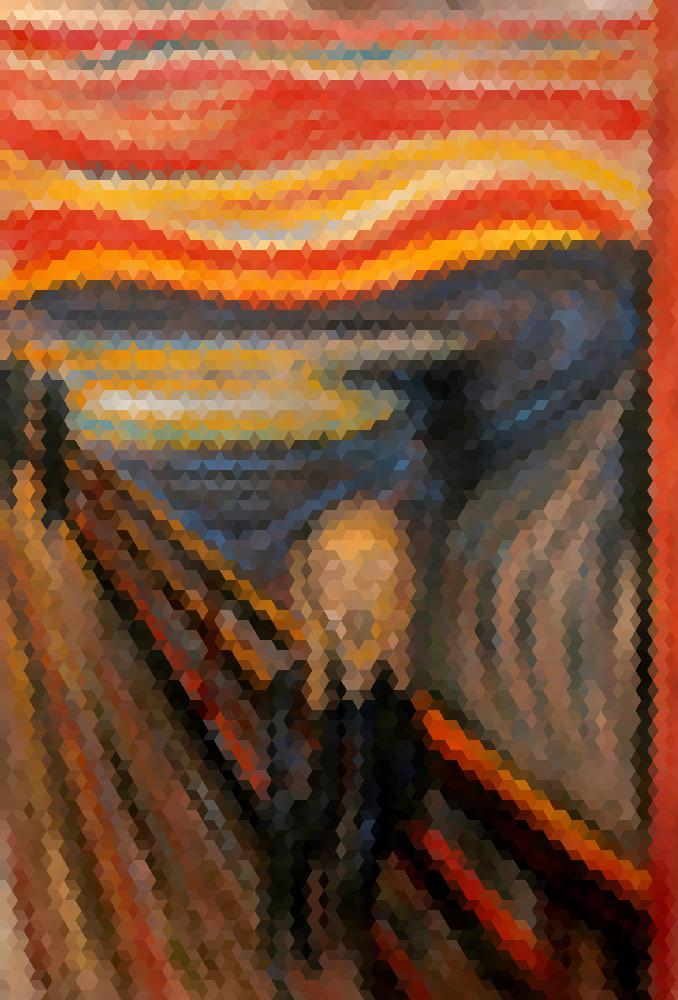
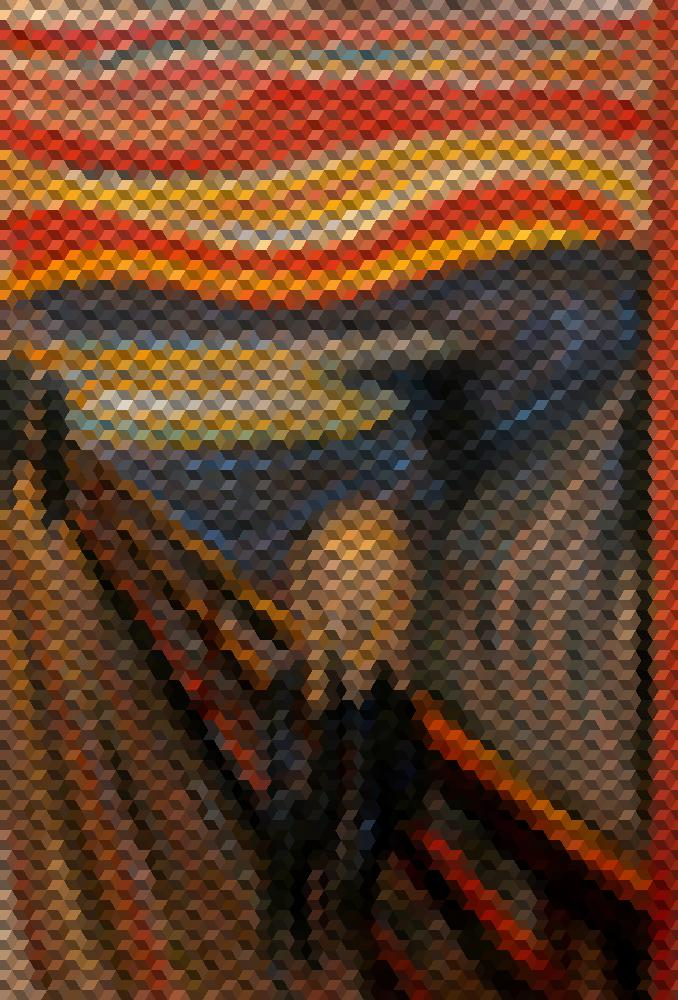
3D tiling added!

diff --git a/tile_generator.py b/tile_generator.py
@@ -37,6 +37,8 @@ def hexagon_tile(xs, ys, xe, ye, radius):
     yoffset = 3 * p
 
     polygons = []
+    weights = []
+
     row = 1
     counter = 0
 
@@ -67,11 +69,12 @@ def hexagon_tile(xs, ys, xe, ye, radius):
                 (p6x, p6y),
                 (p1x, p1y)]
             polygons.append(poly)
+            weights.append(1)
             counter += 1
             xs += w
         ys += yoffset
         row += 1
-    return polygons
+    return polygons, weights
 
 
 def cubic_tile(xs, ys, xe, ye, radius):
@@ -110,6 +113,8 @@ def cubic_tile(xs, ys, xe, ye, radius):
     yoffset = 3 * p
 
     polygons = []
+    weights = []
+
     row = 1
     counter = 0
 
@@ -154,8 +159,188 @@ def cubic_tile(xs, ys, xe, ye, radius):
             polygons.append(poly1)
             polygons.append(poly2)
             polygons.append(poly3)
+            weights.append(1.0)
+            weights.append(0.8)
+            weights.append(0.6)
             counter += 1
             xs += w
         ys += yoffset
         row += 1
-    return polygons
+    return polygons, weights
+
+
+def double_cubic_tile(xs, ys, xe, ye, radius):
+    """
+    Calculate a grid of cubic coordinates of the given radius
+    given lower-left and upper-right coordinates
+    Returns a list of lists containing 4 tuples of x, y point coordinates
+    These can be used to construct valid regular cubic polygons
+
+    You will probably want to use projected coordinates for this
+    """
+    # calculate side length given radius
+    sl = (2 * radius) * math.tan(math.pi / 6)
+    # calculate radius for a given side-length
+    # (a * (math.cos(math.pi / 6) / math.sin(math.pi / 6)) / 2)
+    # see http://www.calculatorsoup.com/calculators/geometry-plane/polygon.php
+
+    # calculate coordinates of the hexagon points
+    # sin(30)
+    p = sl * 0.5
+    b = sl * math.cos(math.radians(30))
+    w = b * 2
+    h = 2 * sl
+
+    # offset start and end coordinates by hex widths and heights to guarantee coverage
+    xs = xs - w
+    ys = ys - h
+    xe = xe + w
+    ye = ye + h
+
+    origx = xs
+    origy = ys
+
+    # offsets for moving along and up rows
+    xoffset = b
+    yoffset = 3 * p
+
+    polygons = []
+    weights = []
+
+    row = 1
+    counter = 0
+
+    while ys < ye:
+        if row % 2 == 0:
+            xs = origx + xoffset
+        else:
+            xs = origx
+        while xs < xe:
+            p1x = xs
+            p1y = ys + p
+            p2x = xs
+            p2y = ys + (3 * p)
+            p3x = xs + b
+            p3y = ys + h
+            p4x = xs + w
+            p4y = ys + (3 * p)
+            p5x = xs + w
+            p5y = ys + p
+            p6x = xs + b
+            p6y = ys
+            cx = (p1x + p3x + p5x) / 3
+            cy = (p1y + p3y + p5y) / 3
+
+            p1x_i = 0.5 * (p1x + cx)
+            p2x_i = 0.5 * (p2x + cx)
+            p3x_i = 0.5 * (p3x + cx)
+            p4x_i = 0.5 * (p4x + cx)
+            p5x_i = 0.5 * (p5x + cx)
+            p6x_i = 0.5 * (p6x + cx)
+            p1y_i = 0.5 * (p1y + cy)
+            p2y_i = 0.5 * (p2y + cy)
+            p3y_i = 0.5 * (p3y + cy)
+            p4y_i = 0.5 * (p4y + cy)
+            p5y_i = 0.5 * (p5y + cy)
+            p6y_i = 0.5 * (p6y + cy)
+
+            poly1 = [
+                (p1x_i, p1y_i),
+                (p2x_i, p2y_i),
+                (cx, cy),
+                (p6x_i, p6y_i),
+            ]
+            weights.append(1.0)
+            poly2 = [
+                (p2x_i, p2y_i),
+                (p3x_i, p3y_i),
+                (p4x_i, p4y_i),
+                (cx, cy),
+            ]
+            weights.append(0.8)
+            poly3 = [
+                (p4x_i, p4y_i),
+                (p5x_i, p5y_i),
+                (p6x_i, p6y_i),
+                (cx, cy),
+            ]
+            weights.append(0.6)
+            polygons.append(poly1)
+            polygons.append(poly2)
+            polygons.append(poly3)
+
+            poly4 = [
+                (p1x, p1y),
+                (p2x, p2y),
+                (p3x, p3y),
+                (p3x_i, p3y_i),
+                (p2x_i, p2y_i),
+                (p1x_i, p1y_i),
+            ]
+            poly5 = [
+                (p3x, p3y),
+                (p4x, p4y),
+                (p5x, p5y),
+                (p5x_i, p5y_i),
+                (p4x_i, p4y_i),
+                (p3x_i, p3y_i),
+            ]
+            poly6 = [
+                (p5x, p5y),
+                (p6x, p6y),
+                (p1x, p1y),
+                (p1x_i, p1y_i),
+                (p6x_i, p6y_i),
+                (p5x_i, p5y_i),
+            ]
+            polygons.append(poly4)
+            weights.append(0.6)
+            polygons.append(poly5)
+            weights.append(1.0)
+            polygons.append(poly6)
+            weights.append(0.8)
+
+
+            counter += 1
+            xs += w
+        ys += yoffset
+        row += 1
+    return polygons, weights
+
+
+def the_wall_tile(xs, ys, xe, ye, radius):
+    polygons = []
+    weights = []
+    x = xs
+    counter = 0
+    while x < xe:
+        y_start = ys if counter % 2 == 0 else ys - radius
+        counter += 1
+        y = y_start
+        while y < ye:
+            p1x = x
+            p1y = y
+            p2x = x
+            p2y = y + 2 * radius
+            p3x = x + radius
+            p3y = p2y
+            p4x = p3x
+            p4y = y
+            poly = [
+                (p1x, p1y),
+                (p2x, p2y),
+                (p3x, p3y),
+                (p4x, p4y),
+            ]
+            polygons.append(poly)
+            weights.append(1.0)
+            y += radius * 2
+        x += radius
+
+    return polygons, weights
+
+
+if __name__ == '__main__':
+    # a = the_wall_tile(0, 0, 100, 100, 10)
+    a = double_cubic_tile(0, 0, 100, 100, 30)
+    print(a)

diff --git a/main.py b/main.py
@@ -3,7 +3,7 @@ import math
 from tqdm import tqdm
 from PIL import Image
 import numpy as np
-from tile_generator import hexagon_tile, cubic_tile
+from tile_generator import hexagon_tile, cubic_tile, the_wall_tile, double_cubic_tile
 from shapely.geometry import Point
 from shapely.geometry.polygon import Polygon
 from sklearn.metrics import pairwise_distances
@@ -17,6 +17,50 @@ from sklearn.metrics import pairwise_distances
 #         for j in range(0, cols, R):
 #             image_segment = image[i: i + R, j: j + R, :]
 #             image_segment_reshape = image_segment.reshape([-1, 3])
+def wall(image, R, h):
+    image = np.array(image)[:, :, :3]
+    rows, cols, _ = image.shape
+    hexagon_points, _ = the_wall_tile(0, 0, rows, cols, R)
+    polygons = [Polygon(points) for points in hexagon_points]
+    polygon_to_i_j = [([], []) for _ in polygons]
+    i_j_to_polygon = [[-1 for _ in range(cols)] for _ in range(rows)]
+    for l, poly in tqdm(enumerate(polygons), total=len(polygons)):
+        min_x, min_y, max_x, max_y = poly.bounds
+        min_x = math.floor(min_x)
+        min_y = math.floor(min_y)
+        max_x = math.ceil(max_x)
+        max_y = math.ceil(max_y)
+        for i in range(max(0, min_x), min(max_x + 1, rows)):
+            for j in range(max(0, min_y), min(max_y + 1, cols)):
+                if i_j_to_polygon[i][j] != -1:
+                    continue
+                x, y = i, j
+                if i == min_x or i == 0:
+                    x = i + 0.1
+                if j == min_y or j == 0:
+                    y = j + 0.1
+
+                point = Point(x, y)
+                if poly.contains(point):
+                    polygon_to_i_j[l][0].append(i)
+                    polygon_to_i_j[l][1].append(j)
+                    i_j_to_polygon[i][j] = l
+
+    polygon_to_color = [255 for _ in polygons]
+    for l in range(len(polygons)):
+        indices = polygon_to_i_j[l]
+        if len(indices[0]) > 0:
+            color = np.mean(image[indices], axis=0)
+            polygon_to_color[l] = color
+
+    pixelized_image = np.ones_like(image) * 255.0
+    for i in range(rows):
+        for j in range(cols):
+            polygon = i_j_to_polygon[i][j]
+            pixelized_image[i, j] = polygon_to_color[polygon]
+
+    pixelized_image = Image.fromarray(np.uint8(pixelized_image))
+    return pixelized_image
 
 
 def voronoi(image, R, h):
@@ -60,7 +104,7 @@ def voronoi(image, R, h):
 def hexagon(image, R, h):
     image = np.array(image)[:, :, :3]
     rows, cols, _ = image.shape
-    hexagon_points = hexagon_tile(0, 0, rows, cols, R)
+    hexagon_points, _ = hexagon_tile(0, 0, rows, cols, R)
     polygons = [Polygon(points) for points in hexagon_points]
     polygon_to_i_j = [([], []) for _ in polygons]
     i_j_to_polygon = [[-1 for _ in range(cols)] for _ in range(rows)]
@@ -106,7 +150,7 @@ def hexagon(image, R, h):
 def cube(image, R, h):
     image = np.array(image)[:, :, :3]
     rows, cols, _ = image.shape
-    hexagon_points = cubic_tile(0, 0, rows, cols, R)
+    hexagon_points, weights = cubic_tile(0, 0, rows, cols, R)
     polygons = [Polygon(points) for points in hexagon_points]
     polygon_to_i_j = [([], []) for _ in polygons]
     i_j_to_polygon = [[-1 for _ in range(cols)] for _ in range(rows)]
@@ -143,7 +187,53 @@ def cube(image, R, h):
     for i in range(rows):
         for j in range(cols):
             polygon = i_j_to_polygon[i][j]
-            pixelized_image[i, j] = polygon_to_color[polygon]
+            pixelized_image[i, j] = polygon_to_color[polygon] * weights[polygon]
+
+    pixelized_image = Image.fromarray(np.uint8(pixelized_image))
+    return pixelized_image
+
+
+def dcube(image, R, h):
+    image = np.array(image)[:, :, :3]
+    rows, cols, _ = image.shape
+    hexagon_points, weights = double_cubic_tile(0, 0, rows, cols, R)
+    polygons = [Polygon(points) for points in hexagon_points]
+    polygon_to_i_j = [([], []) for _ in polygons]
+    i_j_to_polygon = [[-1 for _ in range(cols)] for _ in range(rows)]
+    for l, poly in tqdm(enumerate(polygons), total=len(polygons)):
+        min_x, min_y, max_x, max_y = poly.bounds
+        min_x = math.floor(min_x)
+        min_y = math.floor(min_y)
+        max_x = math.ceil(max_x)
+        max_y = math.ceil(max_y)
+        for i in range(max(0, min_x), min(max_x + 1, rows)):
+            for j in range(max(0, min_y), min(max_y + 1, cols)):
+                if i_j_to_polygon[i][j] != -1:
+                    continue
+                x, y = i, j
+                if i == min_x or i == 0:
+                    x = i + 0.1
+                if j == min_y or j == 0:
+                    y = j + 0.1
+
+                point = Point(x, y)
+                if poly.contains(point):
+                    polygon_to_i_j[l][0].append(i)
+                    polygon_to_i_j[l][1].append(j)
+                    i_j_to_polygon[i][j] = l
+
+    polygon_to_color = [255 for _ in polygons]
+    for l in range(len(polygons)):
+        indices = polygon_to_i_j[l]
+        if len(indices[0]) > 0:
+            color = np.mean(image[indices], axis=0)
+            polygon_to_color[l] = color
+
+    pixelized_image = np.ones_like(image) * 255.0
+    for i in range(rows):
+        for j in range(cols):
+            polygon = i_j_to_polygon[i][j]
+            pixelized_image[i, j] = polygon_to_color[polygon] * weights[polygon]
 
     pixelized_image = Image.fromarray(np.uint8(pixelized_image))
     return pixelized_image
@@ -214,8 +304,10 @@ switcher = {
     'vor': voronoi,
     'hex': hexagon,
     'cube': cube,
+    'dcube': dcube,
     'sq': square,
     'split': split,
+    'wall': wall,
 }
 
 if __name__ == '__main__':

diff --git a/README.md b/README.md
@@ -10,12 +10,12 @@ Hexagonal             | Square          |       Splited
 ![R=15](samples/hex/hex_15.jpg) | ![R=20](samples/sq/monroe_20.jpg)  |  ![R=50](samples/split/split_7.jpg) | 
 ![R=30](samples/hex/hex_30.jpg) | ![R=10](samples/sq/monroe_10.jpg)  |  ![R=200](samples/split/split_23.jpg) | 
 
-Voronoi                   |         Cubical
-:-------------------------:|:-------------------------:
- ![Normal](samples/vor/mona.jpg) | ![Normal](samples/cube/scream.jpg)
- ![R=300](samples/vor/mona_300.jpg) | ![R=10](samples/cube/scream_10.jpg)
- ![R=1000](samples/vor/mona_1000.jpg) | ![R=30](samples/cube/scream_30.jpg)
- ![R=4000](samples/vor/mona_4000.jpg) | ![R=50](samples/cube/scream_50.jpg)
+Voronoi                   |         Cubical         |   Double Cubical
+:-------------------------:|:-------------------------:|:-------------------------:
+ ![Normal](samples/vor/mona.jpg) | ![Normal](samples/cube/scream.jpg) | ![Normal](samples/dcube/gogh.jpg)
+ ![R=300](samples/vor/mona_300.jpg) | ![R=10](samples/cube/scream_5.jpg) | ![R=15](samples/dcube/gogh_15.jpg)
+ ![R=1000](samples/vor/mona_1000.jpg) | ![R=30](samples/cube/scream_10.jpg) | ![R=30](samples/dcube/gogh_30.jpg)
+ ![R=4000](samples/vor/mona_4000.jpg) | ![R=50](samples/cube/scream_30.jpg) | ![R=50](samples/dcube/gogh_50.jpg)
  
  
 ### Requirements
